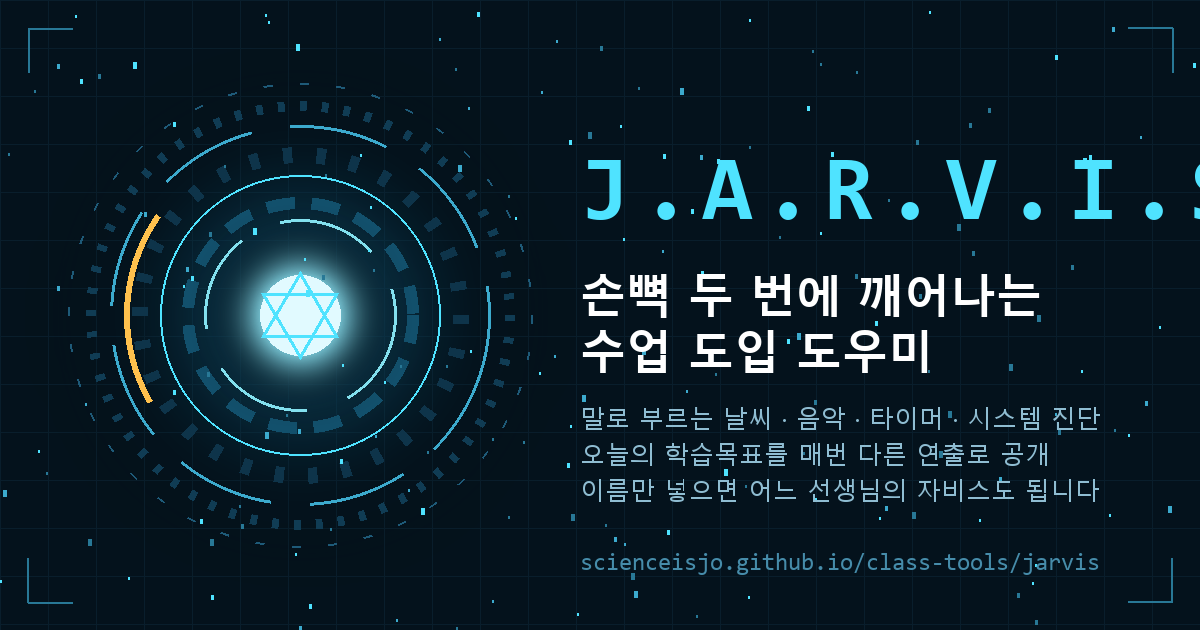
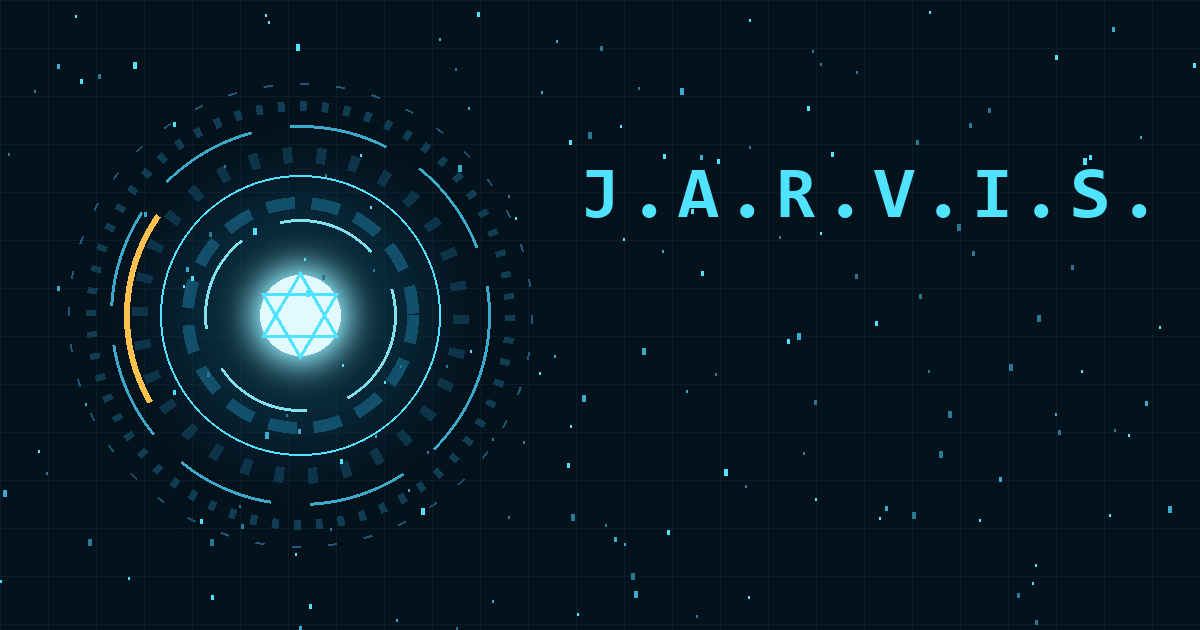
카드 제목이 잘리던 것과 설명 메타의 따옴표를 고친다
카드 그림의 J.A.R.V.I.S. 글자를 줄여 오른쪽이 잘리지 않게 했다. description 안의 큰따옴표가 속성을 끊어 스크래퍼가 설명을 반만 읽던 것을 &quot; 로 바꿨다.

diff --git a/jarvis/index.html b/jarvis/index.html
@@ -1,10 +1,10 @@
 <meta charset="utf-8">
 <meta name="viewport" content="width=device-width,initial-scale=1">
 <title>자비스 — 손뼉 두 번에 깨어나는 수업 도입 도우미</title>
-<meta name="description" content="손뼉 두 번이면 깨어나 "Welcome home." 하고 인사하는 아이언맨의 인공지능 비서. 말로 날씨·음악·타이머를 부르고, 오늘의 학습목표를 매번 다른 연출로 공개합니다. 어느 선생님이든 이름만 넣으면 자기 자비스가 됩니다. 크롬·엣지, 설치 없음.">
+<meta name="description" content="손뼉 두 번이면 깨어나 &quot;Welcome home.&quot; 하고 인사하는 아이언맨의 인공지능 비서. 말로 날씨·음악·타이머를 부르고, 오늘의 학습목표를 매번 다른 연출로 공개합니다. 어느 선생님이든 이름만 넣으면 자기 자비스가 됩니다. 크롬·엣지, 설치 없음.">
 <meta property="og:type" content="website">
 <meta property="og:title" content="자비스 — 손뼉 두 번에 깨어나는 수업 도입 도우미">
-<meta property="og:description" content="손뼉 두 번이면 깨어나 "Welcome home." 하고 인사하는 아이언맨의 인공지능 비서. 말로 날씨·음악·타이머를 부르고, 오늘의 학습목표를 매번 다른 연출로 공개합니다. 어느 선생님이든 이름만 넣으면 자기 자비스가 됩니다. 크롬·엣지, 설치 없음.">
+<meta property="og:description" content="손뼉 두 번이면 깨어나 &quot;Welcome home.&quot; 하고 인사하는 아이언맨의 인공지능 비서. 말로 날씨·음악·타이머를 부르고, 오늘의 학습목표를 매번 다른 연출로 공개합니다. 어느 선생님이든 이름만 넣으면 자기 자비스가 됩니다. 크롬·엣지, 설치 없음.">
 <meta property="og:url" content="https://scienceisjo.github.io/class-tools/jarvis/">
 <meta property="og:site_name" content="class-tools">
 <meta property="og:image" content="https://scienceisjo.github.io/class-tools/jarvis/og.png">
